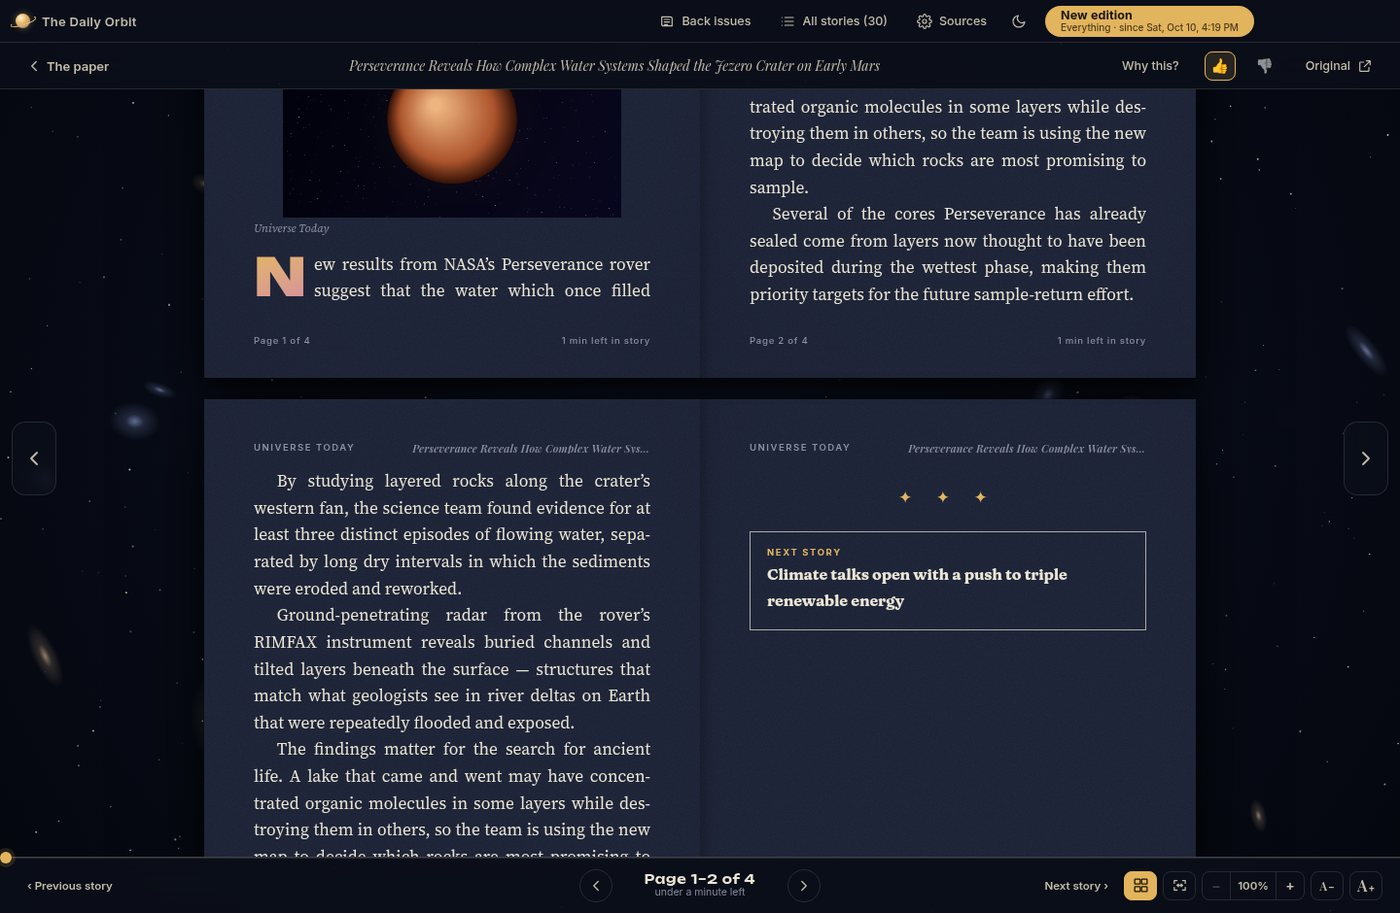
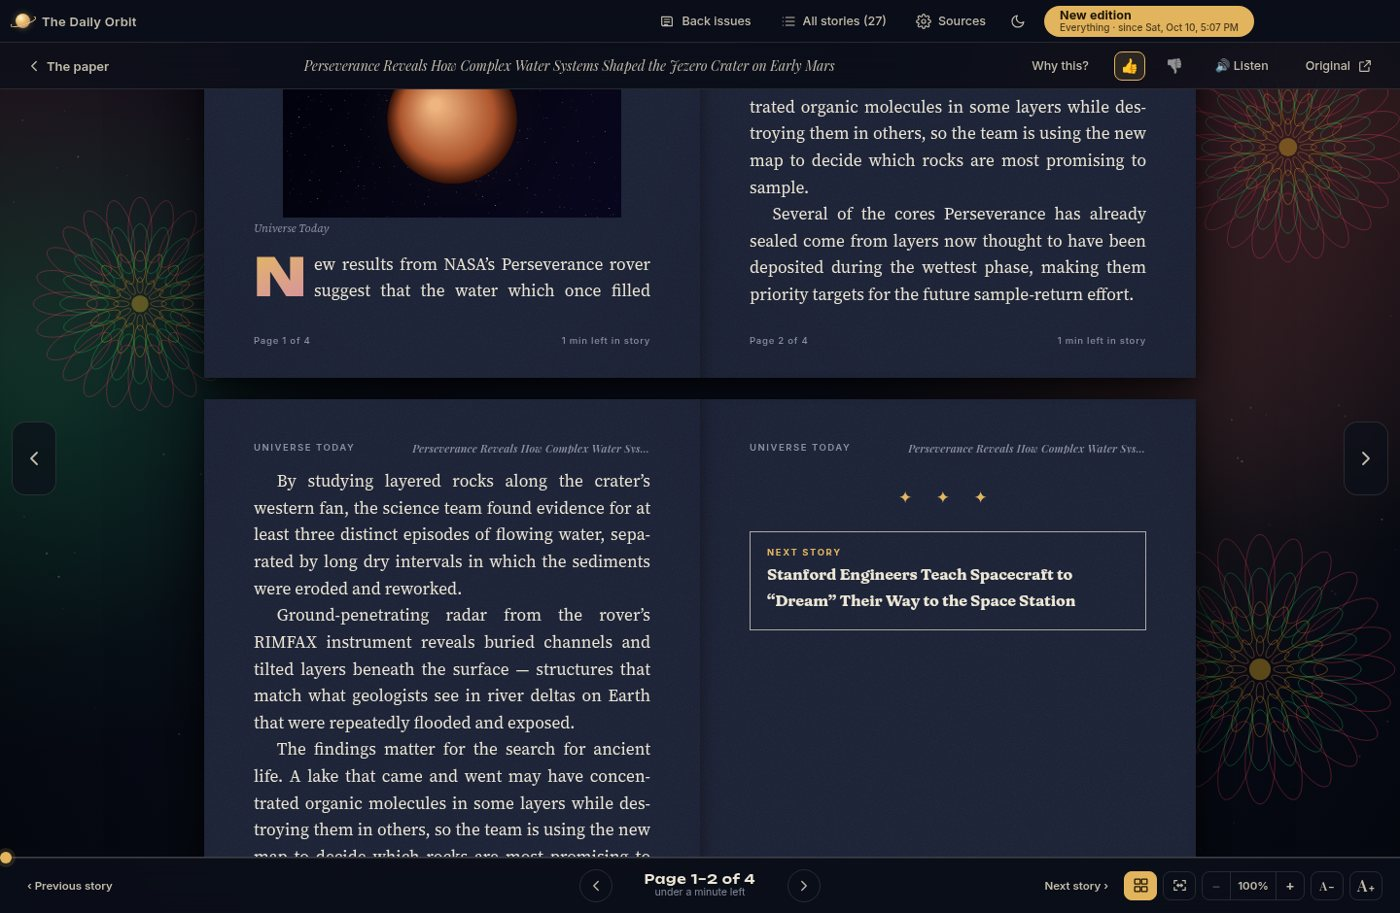
README: 60-second tour, made for everyone (accessibility), who it's for, numbers, gallery
Claude-Session: https://claude.ai/code/session_01Brxd53GoNe6ZVs2AMwabgg

diff --git a/README.md b/README.md
@@ -1,34 +1,39 @@
 <p align="center">
-  <img src="docs/images/logo.png" width="128" alt="The Daily Orbit logo">
+  <img src="docs/images/logo.png" width="128" alt="The Daily Orbit logo: a golden planet with a ring">
 </p>
 
 <h1 align="center">The Daily Orbit</h1>
 
+<p align="center"><b>A newspaper that learns you, not one that sells you.</b></p>
+
 <p align="center">
-  Your personal daily newspaper for Windows.<br>
-  World, India, finance, tech, science, sport, the sky and more. Free to run, learns your taste, keeps your reading on your laptop.
+  Your own daily paper for Windows: World, India, Finance, Technology, Science, Sports, Astronomy, Health and Entertainment.<br>
+  Free. No account. No ads. It learns your taste on your laptop, and proves that nothing about you leaves it.
 </p>
 
 <p align="center">
   <img alt="version" src="https://img.shields.io/badge/version-1.2.0-e9b65a">
   <img alt="platform" src="https://img.shields.io/badge/platform-Windows-1b2547">
+  <img alt="cost" src="https://img.shields.io/badge/cost-free-22c55e">
+  <img alt="tracking" src="https://img.shields.io/badge/tracking-none-22c55e">
   <img alt="licence" src="https://img.shields.io/badge/licence-MIT-green">
 </p>
 
-![The newsstand](docs/images/newsstand.jpg)
+<p align="center"><i>Built in an afternoon at the Claude Build Day, Mumbai (10 Oct 2026), with Claude Code, on top of <a href="https://github.com/vishal-1211/AstroGazette">The Astro Gazette</a>.</i></p>
 
-Open the newsstand, choose **Everything** or any mix of desks, and press **Print my paper**. The app gathers the free-to-read stories from the publishers you pick, reads the full articles, and prints them as a newspaper made for you. It grew out of [The Astro Gazette](https://github.com/vishal-1211/AstroGazette), an astronomy-only paper, and keeps everything that one does.
+![The newsstand: choose Everything or any mix of nine desks](docs/images/newsstand.jpg)
 
-- **Nine desks**: World, India, Finance, Technology, Science, Sports, Astronomy, Health, Entertainment, each with its own sections (Finance → Markets, Economy & Policy, Companies, Your Money, Crypto; Sports → Cricket, Football, Tennis, Motorsport…).
-- **Everything or one topic**: the Everything paper gives every desk with news at least one page and more pages to what you read most. A topic paper (say, Finance) is that desk alone, with its own masthead.
-- **One brain across topics**: what you open, finish and rate anywhere teaches the same model. Read the money pages and Finance moves up in every paper.
-- **Only free stories**: paywalled articles are detected and skipped.
-- **A real paper**: front page, top stories, Page 3 people, topic pages, quiz, did-you-know, home-made memes, back page; plus great telescopes and your sky when Astronomy is in the paper.
-- **Proof, not promises**: a "What left your laptop" page lists every site contacted for each paper; a taste chart shows what it learned.
-- **Listen, compare, PDF**: stories read aloud with offline voices, the same story from every publisher side by side, the whole paper as a PDF, and a demo paper that works offline.
-- **Private**: the reading windows cannot reach the internet; publishers see a generic reader with no cookies. Optional Tor routing.
+## In 60 seconds
 
-## Why The Daily Orbit
+1. **Pick your paper.** *Everything*, or any mix of nine desks.
+2. **Press Print.** It reads about 70 free publishers and lays out a real newspaper in seconds: front page, sections, quiz, memes, back page.
+3. **Read, listen or save.** Turn the pages, press **▶ Briefing** to hear the top five stories, or save the whole paper as a PDF.
+4. **It learns.** Open what you like, tap 👍 or 👎. Tomorrow's paper is more yours.
+5. **Check the receipt.** The **You & your paper** page shows what it learned and **every site it contacted**, with proof that nothing about you was sent.
+
+No internet right now? Press **Demo paper (offline)** on the newsstand.
+
+## Why it wins your trust
 
 **A newspaper that learns you, not one that sells you.** Most news apps learn what you read so they can keep you scrolling and sell your attention. The Daily Orbit learns what you read so it can print you a better paper, and that knowledge never leaves your laptop.
 
@@ -57,12 +62,58 @@ Open the newsstand, choose **Everything** or any mix of desks, and press **Print
 - **Yours to shape.** About 70 free sources ready to go, any RSS feed or website can be added, nine desks you can mix in any combination, night and day paper, zoom, fit-to-width and continuous reading.
 - **Open source, MIT licence.** Read every line of what runs on your machine.
 
+## Made for everyone
+
+News should be easy to take in, whatever your eyes, your connection or your budget.
+
+- **Listen instead of read.** **▶ Briefing** reads the edition's top five stories aloud in about two minutes. **🔊 Listen** reads any full story. Both use only the voices built into your computer, so they work offline and never send the text anywhere. Helpful for people with low vision or blindness, people with dyslexia, and anyone cooking breakfast.
+- **Big, clear type.** Zoom up to 250%, larger or smaller type (A− / A+), and fit-to-width mode for one large page with big text. Night paper (light text on dark) and day paper (dark text on cream) for comfortable contrast.
+- **Keyboard first.** ← / → turn pages, ↑ / ↓ move around a page, Home / End jump to the start or end, Esc goes back. Pages never turn by accident: no swipes, no scroll-to-turn.
+- **Calm reading.** No autoplay, no pop-ups, no notifications, no infinite feed. Continuous reading mode shows a whole story as one scroll.
+- **Light on data and money.** Free forever, no subscription. Pictures are saved once when the paper is printed, back issues open offline, and a second paper the same day reuses stories it already downloaded. Good for slow or metered connections.
+- **Plain language about itself.** Every choice the paper makes can be explained: "Why this?" on any story, a taste chart, a model check, and one button to erase what it learned.
+
+Full screen-reader support and a high-contrast mode are next on the roadmap (see below).
+
+## Who it's for
+
+- **Busy professionals** who want the day's finance, tech and world news in one calm read, or as a two-minute audio briefing.
+- **Students** who want news across subjects, with a quiz and context, without a social feed.
+- **Older readers** who miss the shape of a real newspaper, and want big type and audio.
+- **People with low vision or reading difficulties**, who can listen to the paper read aloud offline.
+- **Privacy-conscious readers, journalists and researchers**, who don't want their reading tracked.
+- **Families and schools**, who want news without ads, trackers or endless scrolling.
+
+## By the numbers
+
 | | |
 |---|---|
-| ![Front page](docs/images/cover.jpg) | ![World and India pages](docs/images/spread.jpg) |
-| ![Finance edition](docs/images/finance-edition.jpg) | ![Fun and quiz page](docs/images/fun-and-quiz.jpg) |
+| Desks (topics) | 9, each with its own sections |
+| Free sources ready to use | about 70, 49 switched on |
+| From click to paper | about 22 s for a full paper from 49 publishers (benchmark on a slow network); a second paper the same day is near-instant |
+| Data sent about you | none: no account, cookies, IDs, location or reading history |
+| Cost | 0: no subscription, no paid AI, no ads |
+| Automated checks | learning, sky maths, layout at four screen sizes, page limits, privacy (identical requests whatever you read) and speed, on every change |
+
+
+
+## A look inside
+
+| | |
+|---|---|
+| ![Front page of an Everything paper](docs/images/cover.jpg) | ![World and India desk pages](docs/images/spread.jpg) |
+| ![A Finance-only edition with its own masthead and market backdrop](docs/images/finance-edition.jpg) | ![Fun and games: quiz, did-you-know and memes](docs/images/fun-and-quiz.jpg) |
+| ![You & your paper: taste chart and the list of every site contacted](docs/images/you-and-your-paper.jpg) | ![One story, every publisher: two versions side by side](docs/images/compare.jpg) |
 
 <sub>Screenshots come from the automated tests, which use made-up stories and placeholder pictures.</sub>
+
+## What makes it different
+
+- **Nine desks, one paper**: Everything gives every desk with news at least one page and more pages to what you read most. A topic paper (say, Finance) is that desk alone, with its own masthead and backdrop.
+- **One brain across topics**: what you open, finish and rate anywhere teaches the same on-device model. About one story in five is deliberately something different, so it never traps you in a bubble.
+- **Only free stories**: paywalled articles are detected and skipped.
+- **One story, every publisher**: when several outlets cover the same news, compare how each told it, side by side.
+- **A real paper**: Page 3 people, a quiz built from the week's stories, did-you-know facts, home-made memes, great telescopes and your own sky when Astronomy is in the paper.
 
 ## Upcoming extensions
 
@@ -77,7 +128,7 @@ The Daily Orbit is young. These are on the roadmap:
 - **Smarter writing on the page.** Today summaries are extracted from the article itself; a small on-device model could write short, neutral summaries and headlines.
 - **Source health and discovery.** Suggest good free sources for a new desk, and warn when a publisher starts paywalling.
 - **Shareable editions.** Send a page or a whole paper to a friend as a PDF or link, without revealing your taste.
-- **Accessibility.** Larger-type and high-contrast modes, full keyboard and screen-reader support.
+- **Accessibility, further.** Full screen-reader support (every page and control labelled), a high-contrast mode, adjustable reading voice and speed, and a dyslexia-friendly font option.
 
 ## Documentation
 
@@ -111,16 +162,6 @@ The app remembers when you last printed an edition.
 - **Away more than 7 days** → only the last 7 days. The paper tells you how long you were away.
 
 If nothing is new, you get "You're all caught up" and your window isn't used up. If every source is unreachable (no internet), nothing changes either. The 7 days can be changed in **Sources → Edition settings** (1–30).
-
-## How the edition window works
-
-Each kind of paper remembers when it was last printed: Everything, Finance, Finance + Sports, and so on.
-
-- **First edition of a kind** → stories from the past 7 days.
-- **Printed less than 7 days ago** → everything published since that edition.
-- **Away more than 7 days** → only the last 7 days.
-
-Stories already printed in any paper are not repeated. The 7 days can be changed in **Sources → Edition settings** (1–30).
 
 ## Sources
 
